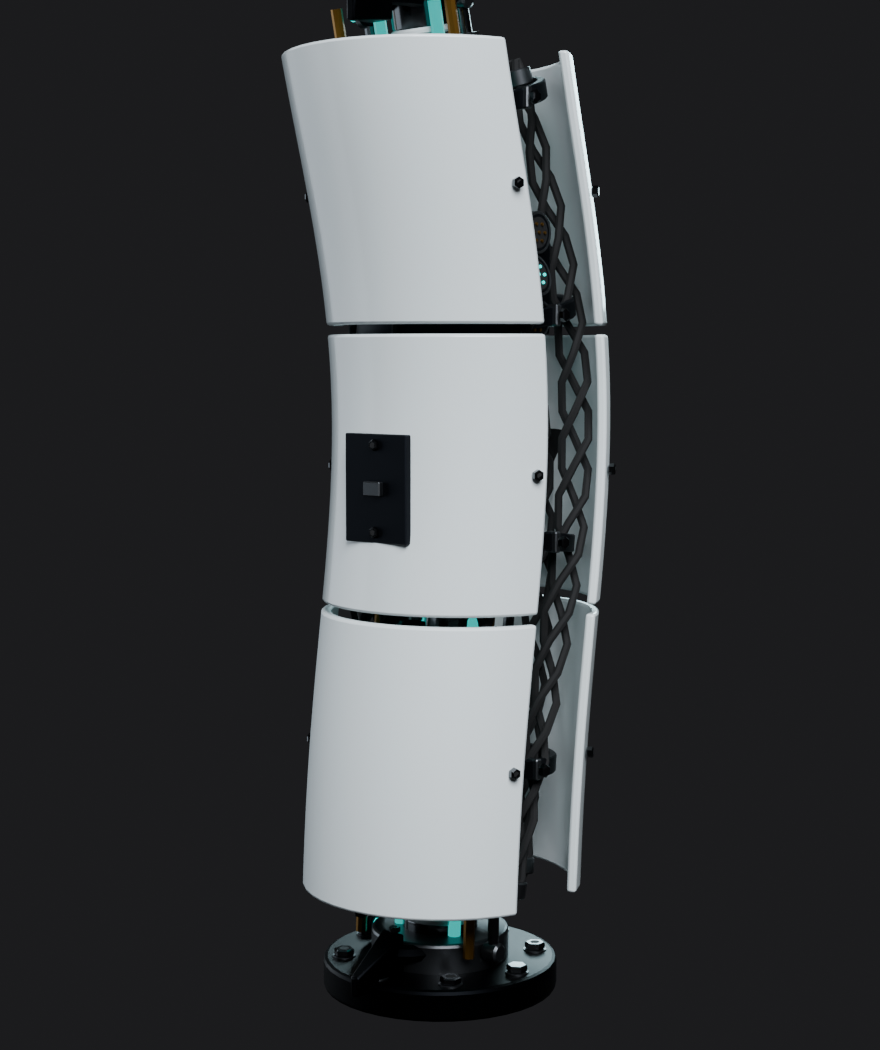
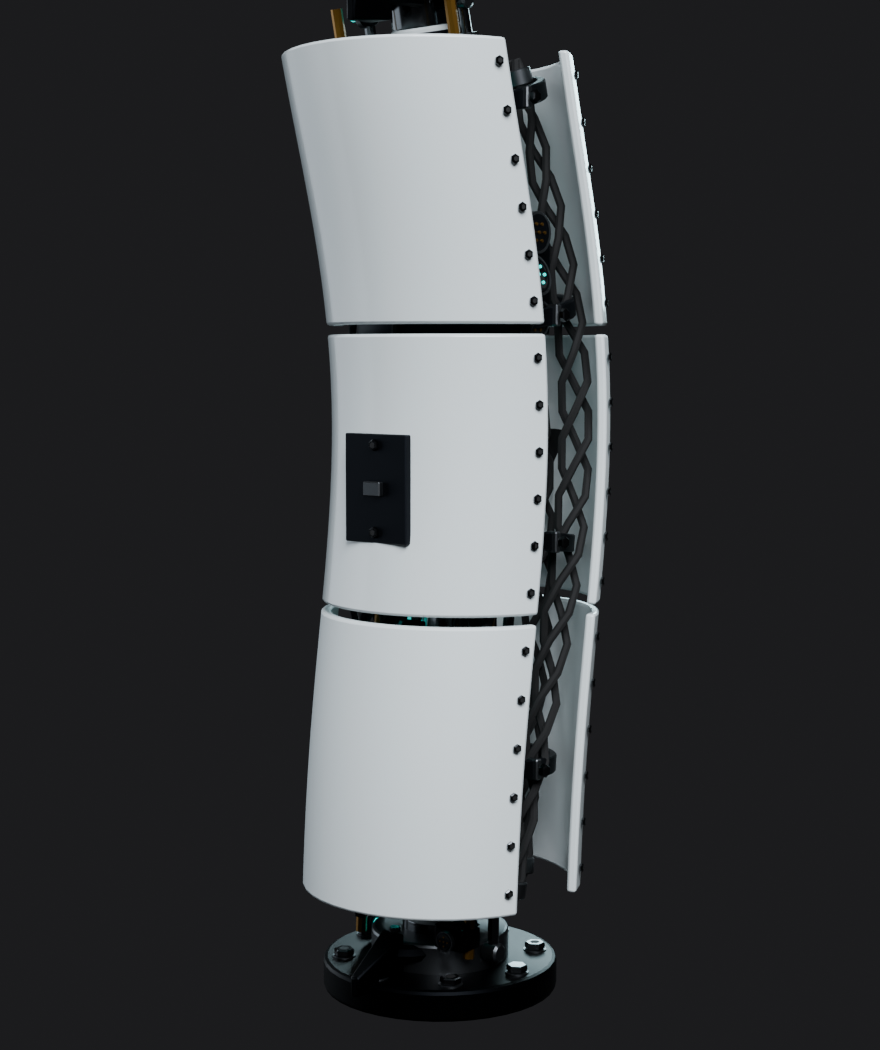
High-density rebuild: cybernetic module hero (calibrate the detail bar)
Asset density was the real 'cheap' tell. Layered genuine hard-surface density
onto the hero (81k -> 162k tris, 3.5MB baked):
- kit: bolt_ring, cable_bundle (dense woven harness w/ clamp collars), fin_stack
  (heatsink comb), greeble_plate helpers.
- Every vertebra now carries: 48-seg machined drum + bearing race, ceramic
  facets each ringed by a mounting flange + a 10-bolt circle, a posterolateral
  SERVO HOUSING (box + 7-fin mini heatsink + 4 micro-bolts + data connector),
  actuators + tie-rods.
- Neural conductor: two flanks are now DENSE 13-cable woven harnesses with 6
  clamp collars each (not single filaments).
- Dermal shells: full bolt ROWS down every seam (6/edge) instead of a token pair.
- Co-processor: a 28-fin heatsink comb + tie-bars + heat-pipe loops.
Re-baked PBR (normal+rough+AO) for the new geometry. Verified in-engine: the
spine reads as a complex dense mechanism, sharp + correctly exposed.

diff --git a/tools/blender/build_cybernetic_module.py b/tools/blender/build_cybernetic_module.py
@@ -90,22 +90,34 @@ for i in range(NV):
     R = 0.055 * taper
 
     # --- centrum: a machined drum with a recessed circumferential groove ---
-    body = S.cyl(f"Vbody{i}", R, 0.058, 28, tuple(p), col)
+    body = S.cyl(f"Vbody{i}", R, 0.058, 48, tuple(p), col)
     body.rotation_euler = tan.to_track_quat("Z", "Y").to_euler()
     S.assign(body, m["titanium_polish"]); S.bevel(body, 0.004, 2)
     spine_parts.append(body)
-    groove = S.tube(f"Vgrv{i}", R * 0.98, R * 0.86, 0.014, 28, tuple(p), col)
+    groove = S.tube(f"Vgrv{i}", R * 0.98, R * 0.86, 0.014, 48, tuple(p), col)
     groove.rotation_euler = body.rotation_euler
     S.assign(groove, m["obsidian_matte"])
     spine_parts.append(groove)
+    # a bright bearing race seated in the groove (machined density)
+    bearing = S.tube(f"Vbr{i}", R * 0.90, R * 0.84, 0.020, 48, tuple(p), col)
+    bearing.rotation_euler = body.rotation_euler
+    S.assign(bearing, m["titanium"]); S.bevel(bearing, 0.0016, 1)
+    spine_parts.append(bearing)
 
-    # --- endplate facets: ceramic articulation pads above & below ---
+    # --- endplate facets: ceramic articulation pads above & below, each ringed
+    #     by a mounting flange + a bolt circle (mechanical density) ---
     for sz, tag in ((1, "sup"), (-1, "inf")):
         fp = p + tan * (sz * 0.032)
-        facet = S.cyl(f"Vfac{i}{tag}", R * 1.06, 0.010, 28, tuple(fp), col)
+        facet = S.cyl(f"Vfac{i}{tag}", R * 1.06, 0.010, 48, tuple(fp), col)
         facet.rotation_euler = body.rotation_euler
         S.assign(facet, m["ceramic"]); S.bevel(facet, 0.003, 1)
         spine_parts.append(facet)
+        flange = S.cyl(f"Vflg{i}{tag}", R * 1.16, 0.007, 48, tuple(fp + tan * (sz * 0.006)), col)
+        flange.rotation_euler = body.rotation_euler
+        S.assign(flange, m["graphite_light"]); S.bevel(flange, 0.0016, 1)
+        spine_parts.append(flange)
+        spine_parts += K.bolt_ring(f"Vfb{i}{tag}", tuple(fp + tan * (sz * 0.010)),
+                                   tuple(tan * sz), R * 1.10, 10, col, m, r=0.004, head_h=0.004)
 
     # --- pedicles + posterior arch enclosing the neural foramen ---
     arch_c = p + Vector((0, -R * 1.7, 0))
@@ -150,6 +162,23 @@ for i in range(NV):
     for s in (-1, 1):
         spine_parts += K.socket_cap(f"Vasc{i}_{s}", p + Vector((s * R * 0.5, R * 0.98, 0)),
                                     col, m, r=0.006, axis=(0, 1, 0))
+
+    # --- posterolateral servo housing: machined box + mini heatsink + micro-bolts
+    #     + a data connector. Alternating side; the biggest per-vertebra density. ---
+    ss = 1 if i % 2 == 0 else -1
+    sv = p + Vector((ss * R * 1.5, -R * 1.15, 0.028))
+    sbox = S.box(f"Vsv{i}", (0.052, 0.040, 0.030), tuple(sv), col)
+    S.assign(sbox, m["graphite"]); S.bevel(sbox, 0.003, 2)
+    spine_parts.append(sbox)
+    spine_parts += K.fin_stack(f"Vsvf{i}", sv + Vector((0, 0, 0.018)), X, Vector((0, 1, 0)),
+                               7, 0.046, 0.012, 0.0022, 0.032, col, m["graphite_worn"])
+    for bx in (-1, 1):
+        for by in (-1, 1):
+            spine_parts += K.hex_bolt(f"Vsvb{i}{bx}{by}",
+                                      tuple(sv + Vector((bx * 0.022, by * 0.017, 0.016))),
+                                      col, m, r=0.0032, head_h=0.0032, washer=False, axis=(0, 0, 1))
+    spine_parts += K.connector_port(f"Vsvc{i}", tuple(sv + Vector((0, -0.024, 0.0))),
+                                    col, m, r=0.013, depth=0.012, axis=(0, -1, 0), pins=5)
 
     # --- asymmetric medical hardware: sensor pod (odd) / connector stub (even) ---
     if i % 2 == 1:
@@ -246,19 +275,13 @@ for i in range(NV):
     S.assign(node, m["data"])
     neural_parts.append(node)
 
-# two heavier cyan bundles running the flanks with connector collars
+# DENSE cyan cable harnesses running each flank — a woven bundle of many thin
+# fibres with machined clamp collars, not a single fat filament.
 for s in (-1, 1):
-    pts = [spine_at(i / 30) + Vector((s * 0.05, -0.03, 0)) for i in range(31)]
-    bundle = K.sweep_tube(f"Nbun_{s}", pts, 0.009, col, m["data_soft"], segs=8)
-    if bundle:
-        neural_parts.append(bundle)
-    for k in range(6):
-        t = 0.08 + 0.84 * (k / 5)
-        cp = spine_at(t) + Vector((s * 0.05, -0.03, 0))
-        collar = S.tube(f"Ncol_{s}_{k}", 0.014, 0.010, 0.012, 14, tuple(cp), col)
-        collar.rotation_euler = tangent_at(t).to_track_quat("Z", "Y").to_euler()
-        S.assign(collar, m["titanium"])
-        neural_parts.append(collar)
+    def flank(tt, s=s):
+        return spine_at(tt * 0.9 + 0.05) + Vector((s * 0.055, -0.03, 0))
+    neural_parts += K.cable_bundle(f"Nbun{s}", flank, col, m, count=13, r=0.0032,
+                                   spread=0.016, samples=34, mat=m["data_soft"], collars=6)
 
 neural_conductor = S.join_all(neural_parts, "Neural_Conductor")
 S.shade_smooth(neural_conductor)
@@ -343,17 +366,21 @@ def shell_panel(name, sign, z_lo, z_hi, mat):
     S.assign(obj, mat); S.bevel(obj, 0.004, 2); S.shade_smooth(obj)
     return obj
 
-def shell_bolts(prefix, sign, t, mats):
-    """Countersunk fasteners along a panel's two vertical seam edges."""
+def shell_bolts(prefix, sign, zl, zh, mats, n=6):
+    """A full ROW of countersunk fasteners down each of a panel's two vertical
+    seam edges — dense, engineered joinery rather than a token pair."""
     out = []
     span = math.radians(140)
     base_ang = (math.pi / 2) if sign > 0 else (-math.pi / 2)
-    cp = spine_at(t)
     for edge in (-1, 1):
-        a = base_ang + edge * span / 2 * 0.92
-        pos = (cp.x + math.cos(a) * 0.203, cp.y + math.sin(a) * 0.203, cp.z)
-        n = (math.cos(a), math.sin(a), 0)
-        out += K.hex_bolt(f"{prefix}_{edge}", pos, col, mats, r=0.006, axis=n, washer=False)
+        a = base_ang + edge * span / 2 * 0.93
+        nrm = (math.cos(a), math.sin(a), 0)
+        for j in range(n):
+            t = zl + (zh - zl) * (j + 0.5) / n
+            cp = spine_at(t)
+            pos = (cp.x + math.cos(a) * 0.203, cp.y + math.sin(a) * 0.203, cp.z)
+            out += K.hex_bolt(f"{prefix}_{edge}_{j}", pos, col, mats, r=0.005,
+                              head_h=0.005, axis=nrm, washer=False)
     return out
 
 def shell_on_surface_axes(sign, t):
@@ -373,7 +400,7 @@ zbands = [(0.06, 0.36), (0.37, 0.66), (0.67, 0.95)]
 mat_variants = [m["ceramic"], m["ceramic_matte"], m["ceramic"]]
 for pi, (zl, zh) in enumerate(zbands):
     shellL_parts.append(shell_panel(f"ShL_p{pi}", +1, zl, zh, mat_variants[pi]))
-    shellL_parts += shell_bolts(f"ShLb{pi}", +1, (zl + zh) / 2, m)
+    shellL_parts += shell_bolts(f"ShLb{pi}", +1, zl, zh, m)
 cV, uV, vV, nV = shell_on_surface_axes(+1, 0.5)
 shellL_parts += K.vent_louvers("ShL_vent", cV, uV, vV, 0.10, 0.14, col, m, slats=6, tilt=0.5)
 shell_L = S.join_all(shellL_parts, "Dermal_Shell_L")
@@ -383,7 +410,7 @@ S.weighted_normal(shell_L)
 shellR_parts = []
 for pi, (zl, zh) in enumerate(zbands):
     shellR_parts.append(shell_panel(f"ShR_p{pi}", -1, zl, zh, mat_variants[(pi + 1) % 3]))
-    shellR_parts += shell_bolts(f"ShRb{pi}", -1, (zl + zh) / 2, m)
+    shellR_parts += shell_bolts(f"ShRb{pi}", -1, zl, zh, m)
 cH, uH, vH, nH = shell_on_surface_axes(-1, 0.5)
 hatch = K._plate("ShR_hatch", cH + nH * 0.002, uH, vH, 0.11, 0.15, 0.012, col, m["graphite_light"])
 shellR_parts.append(hatch)
@@ -414,13 +441,24 @@ mem_parts.append(house)
 backplate = S.box("Mem_Back", (0.19, 0.02, 0.14), tuple(house_c + Vector((0, 0.085, 0))), col)
 S.assign(backplate, m["graphite"]); S.bevel(backplate, 0.003, 1)
 mem_parts.append(backplate)
-# finned heatsink (real fins, bevelled tips)
-for fi in range(14):
-    fx = -0.085 + fi * (0.17 / 13)
-    fin = S.box(f"Mem_fin{fi}", (0.006, 0.05, 0.13),
-                tuple(house_c + Vector((fx, 0.11, 0))), col)
-    S.assign(fin, m["graphite_worn"]); S.bevel(fin, 0.0016, 1)
-    mem_parts.append(fin)
+# dense finned heatsink (28 fins) on the +Y crown, split into two combs
+mem_parts += K.fin_stack("Mem_finA", house_c + Vector((0, 0.115, 0)), Vector((0, 0, 1)),
+                         X, 28, 0.13, 0.05, 0.0022, 0.185, col, m["graphite_worn"], taper=0.15)
+# a machined comb base + tie-bars over the fins
+combbase = S.box("Mem_combbase", (0.185, 0.014, 0.14), tuple(house_c + Vector((0, 0.088, 0))), col)
+S.assign(combbase, m["graphite"]); S.bevel(combbase, 0.003, 1)
+mem_parts.append(combbase)
+for tb in (-1, 1):
+    bar = S.box(f"Mem_tie{tb}", (0.185, 0.008, 0.010), tuple(house_c + Vector((0, 0.16, tb * 0.055))), col)
+    S.assign(bar, m["titanium"]); S.bevel(bar, 0.002, 1)
+    mem_parts.append(bar)
+# heat-pipe loops emerging from the sink
+for hp in (-1, 1):
+    pts = [house_c + Vector((hp * 0.06, 0.088, 0.05)), house_c + Vector((hp * 0.09, 0.15, 0.03)),
+           house_c + Vector((hp * 0.07, 0.17, -0.02)), house_c + Vector((hp * 0.03, 0.15, -0.05))]
+    pipe = K.sweep_tube(f"Mem_hp{hp}", pts, 0.006, col, m["titanium_polish"], segs=10)
+    if pipe:
+        mem_parts.append(pipe)
 # A live emissive DISPLAY behind a machined bezel and a thin clear cover. (Deep
 # smoked-glass-over-a-core went dead in AgX — an emissive screen reads in every
 # renderer, and clear cover glass never filters the glow.)

diff --git a/tools/blender/sovereign_kit.py b/tools/blender/sovereign_kit.py
@@ -369,3 +369,98 @@ def braided_strand(name, path_fn, col, mats, n_ply=3, ply_r=0.006, bundle_r=0.02
             S.bevel(fitting, 0.002, 1)
             parts.append(fitting)
     return parts
+
+
+# ----------------------------------------------------------------------------
+# High-density detail — dense fastener rings, cable bundles, heatsink stacks,
+# greeble plates. These are what push an asset from "clean CG" to "hard-surface
+# high-detail": many small, deliberate elements layered over the primary form.
+# ----------------------------------------------------------------------------
+def bolt_ring(name, center, axis, radius, count, col, mats, r=0.008, head_h=0.008,
+              kind="hex"):
+    """A ring of `count` small fasteners around `center`, on the plane ⟂ axis."""
+    center = Vector(center)
+    axis = Vector(axis).normalized()
+    u = perp(axis)
+    v = axis.cross(u).normalized()
+    out = []
+    for i in range(count):
+        a = (i / count) * math.tau
+        p = center + (u * math.cos(a) + v * math.sin(a)) * radius
+        if kind == "hex":
+            out += hex_bolt(f"{name}{i}", tuple(p), col, mats, r=r, head_h=head_h,
+                            washer=False, axis=tuple(axis))
+        else:
+            out += socket_cap(f"{name}{i}", tuple(p), col, mats, r=r, h=head_h, axis=tuple(axis))
+    return out
+
+
+def cable_bundle(name, path_fn, col, mats, count=12, r=0.004, spread=0.03,
+                 samples=40, mat=None, collars=0):
+    """A DENSE bundle of `count` thin cables following path_fn(t)->Vector, packed
+    in a rough disc of `spread`. Optionally `collars` clamp rings along the run."""
+    mat = mat or mats["rubber"]
+    parts = []
+    # deterministic packing: rings of cables in the cross-section disc
+    offs = []
+    ring_caps = [1, 6, 12, 18]
+    idx = 0
+    ri = 0
+    while idx < count:
+        cap = ring_caps[min(ri, len(ring_caps) - 1)]
+        rr = 0.0 if ri == 0 else spread * (ri / max(1, len(ring_caps) - 1))
+        for k in range(cap):
+            if idx >= count:
+                break
+            a = (k / cap) * math.tau
+            offs.append((rr, a))
+            idx += 1
+        ri += 1
+    for ci, (rr, a0) in enumerate(offs):
+        pts = []
+        for i in range(samples):
+            t = i / (samples - 1)
+            c = path_fn(t)
+            tan = (path_fn(min(1, t + 0.03)) - path_fn(max(0, t - 0.03)))
+            tan = tan.normalized() if tan.length > 1e-6 else Vector((0, 0, 1))
+            u = perp(tan)
+            w = tan.cross(u).normalized()
+            a = a0 + t * 1.5  # gentle twist so the bundle reads as woven
+            pts.append(c + (u * math.cos(a) + w * math.sin(a)) * rr)
+        cab = sweep_tube(f"{name}_c{ci}", pts, r, col, mat, segs=6)
+        if cab:
+            parts.append(cab)
+    for k in range(collars):
+        t = (k + 0.5) / collars
+        c = path_fn(t)
+        tan = (path_fn(min(1, t + 0.03)) - path_fn(max(0, t - 0.03))).normalized()
+        coll = S.tube(f"{name}_clamp{k}", spread + 0.012, spread + 0.004, 0.02, 20, tuple(c), col)
+        coll.rotation_euler = tan.to_track_quat("Z", "Y").to_euler()
+        S.assign(coll, mats["titanium"])
+        S.bevel(coll, 0.002, 1)
+        parts.append(coll)
+    return parts
+
+
+def fin_stack(name, center, u, v, n, w, finh, thick, stack_len, col, mat, taper=0.0):
+    """A heatsink: `n` thin fins stacked along `v` over `stack_len`, each `w` wide
+    along `u` and `finh` tall along the surface normal. `taper` shrinks the fin
+    height toward the ends of the stack."""
+    center = Vector(center)
+    u = Vector(u).normalized()
+    v = Vector(v).normalized()
+    nrm = u.cross(v).normalized()
+    out = []
+    for i in range(n):
+        f = (i / max(1, n - 1)) - 0.5
+        fy = f * stack_len
+        env = 1.0 - taper * abs(f) * 2.0
+        out.append(_plate(f"{name}{i}", center + v * fy, u, nrm, w, finh * env, thick, col, mat))
+    return out
+
+
+def greeble_plate(name, center, u, v, w, h, col, mat, recess=0.0):
+    """A small raised (or recessed) detail plate flush on a surface — the
+    secondary-detail layer that makes a panel read as engineered."""
+    n2 = Vector(u).normalized().cross(Vector(v).normalized()).normalized()
+    return _plate(name, Vector(center) + n2 * (0.004 - recess), u, v, w, h, 0.006, col, mat)